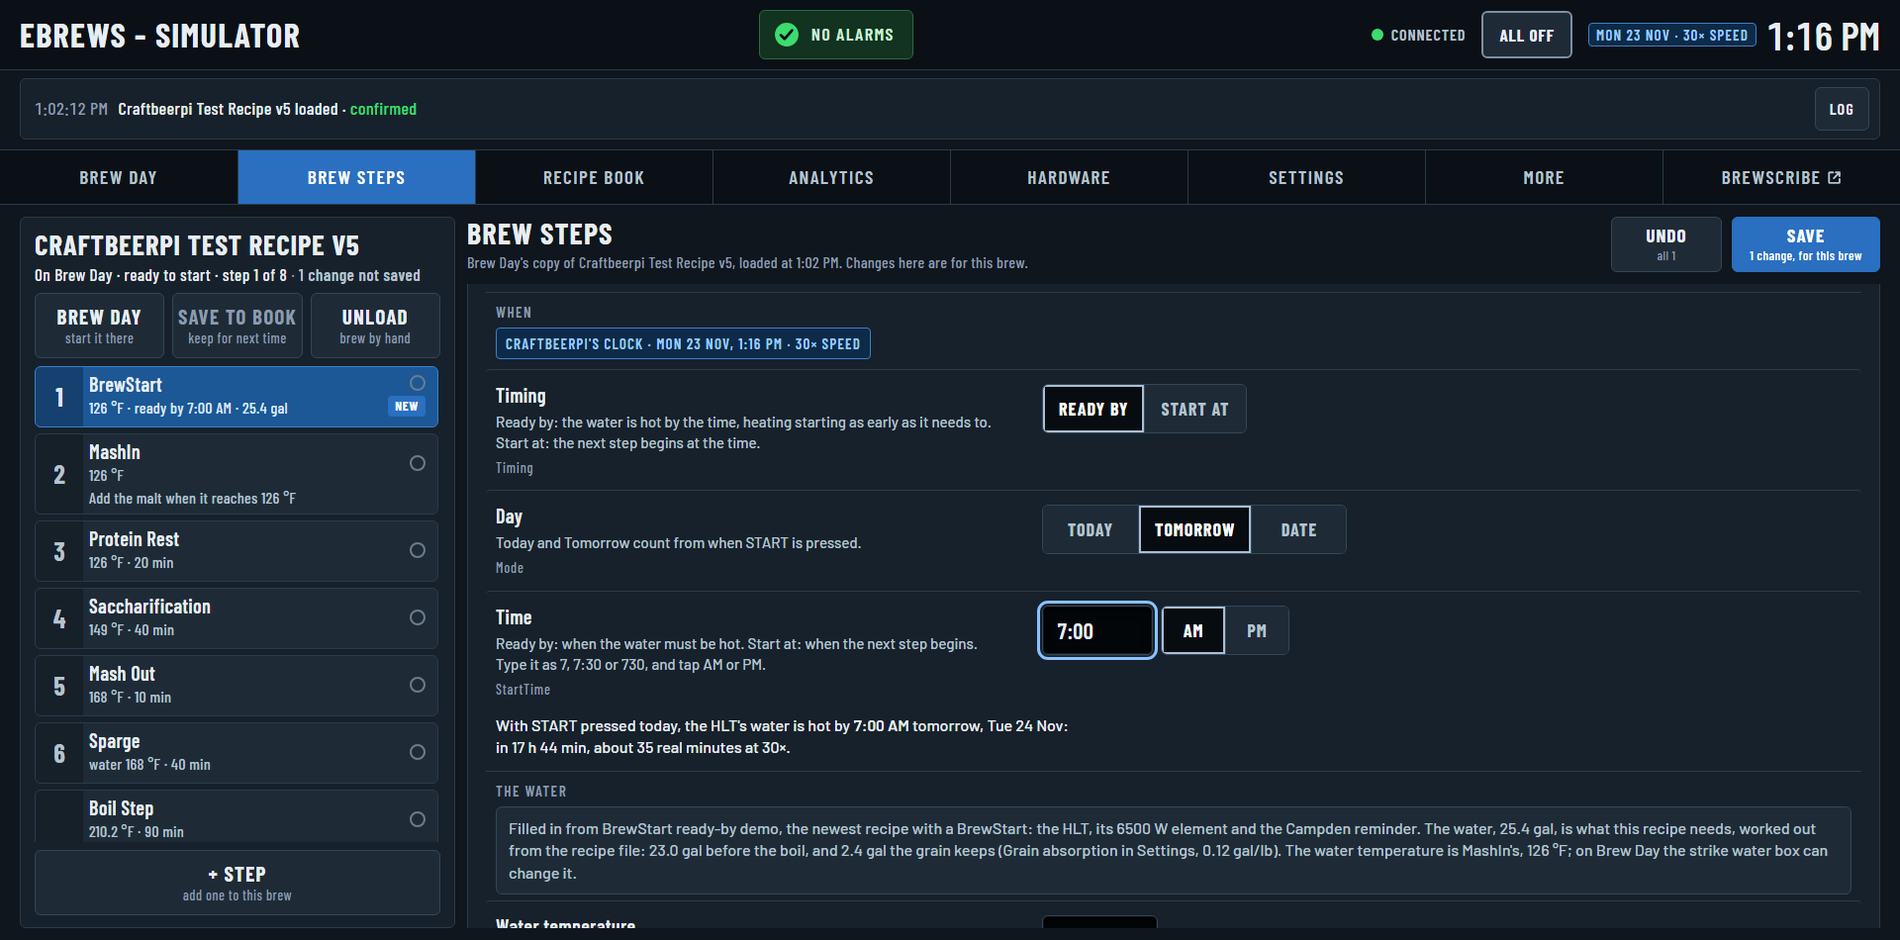
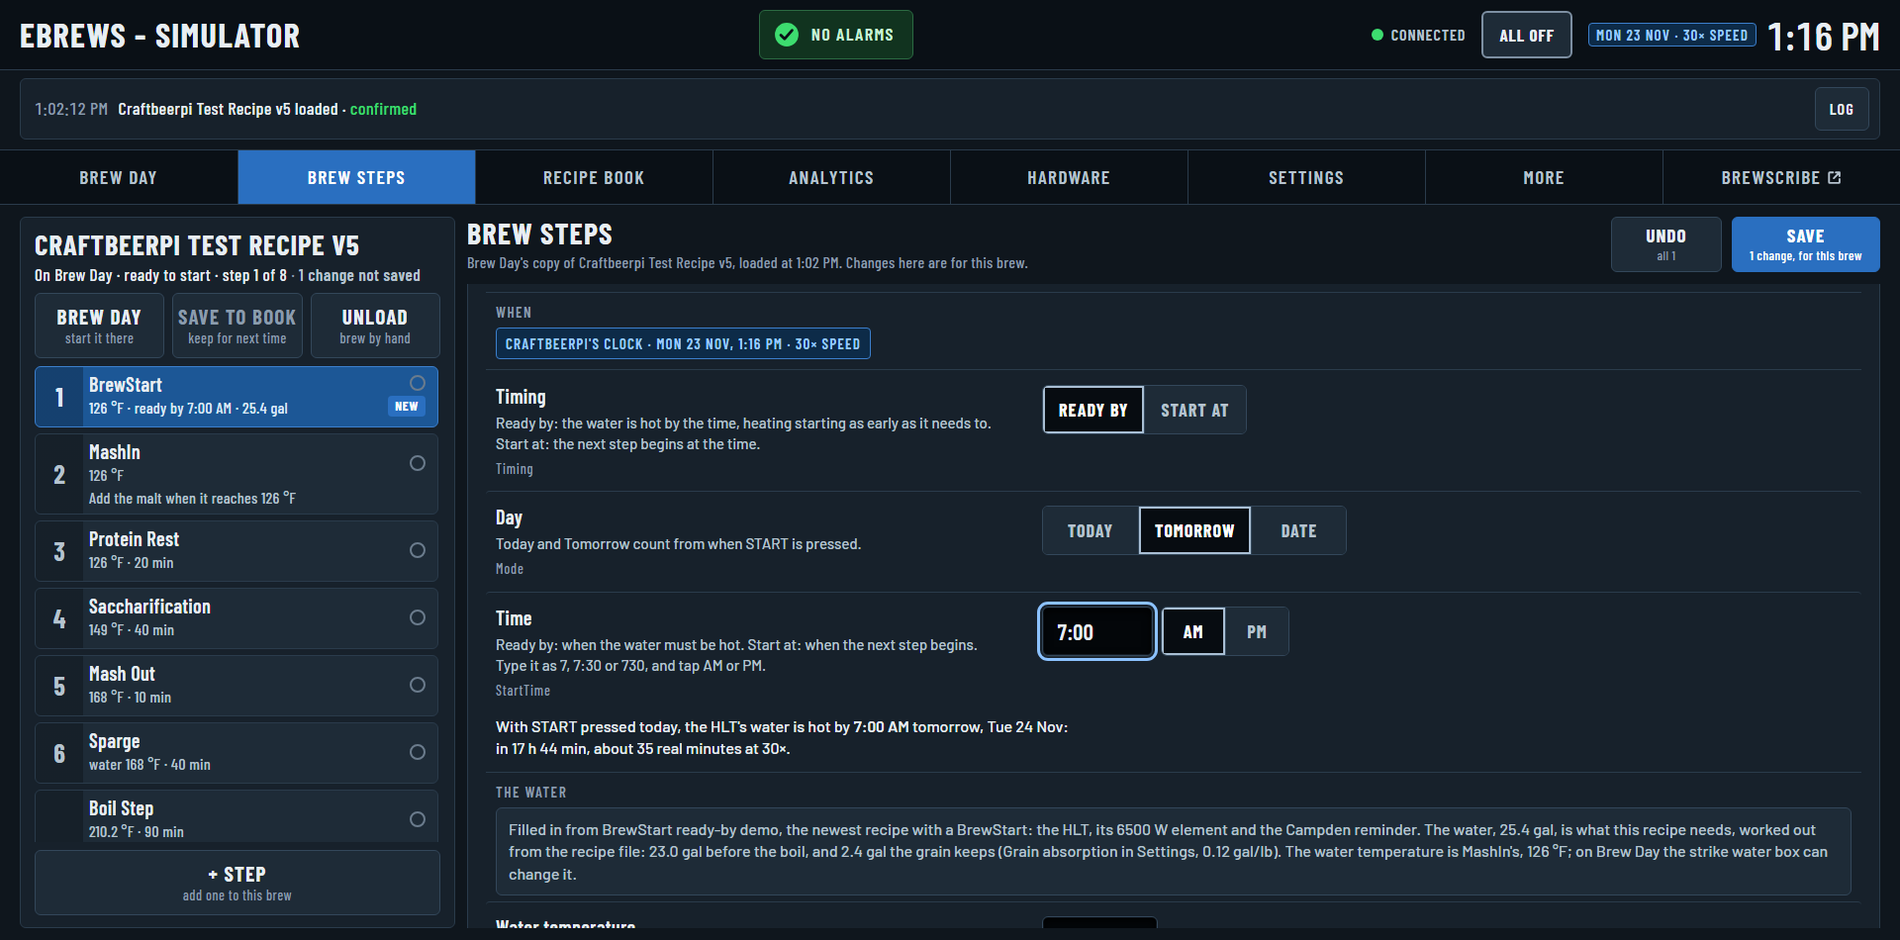
Recipe pages: BrewStart's time in words stays in view, and the clock is pinned
While BrewStart's time is set, the time in words (what shows a slip of
twelve hours) is brought into view after each key, AM or PM, the day and
the date, scrolling as little as it can, clear of the sticky tool row and
a phone's save bar and tabs, and checking the visual viewport for a
phone's on-screen keyboard. Never as the box is left. As Brew Day's
BrewStart box keeps its sentence in view before SET.

On a simulator, the clock tag is pinned at the top of When, as Brew Day's
box pins its tag, so it stays in view on a phone while the time is set.
When now opens below the sticky tool row from 701 to 899 px too.

Measured at twelve sizes: the box, the sentence and the tag in view after
opening, typing, "has passed" and DATE. 111 scripted checks pass.

diff --git a/proposal/recipes.js b/proposal/recipes.js
@@ -474,7 +474,7 @@ function cbClockHTML() {
   // a narrow screen breaks the tag only after a "·", never inside a part
   const seen = ["CraftBeerPi's clock", `${WEEK[d.getDay()]} ${d.getDate()} ${MON[d.getMonth()]}, ${t}`, g.fast ? `${sc}× speed` : ""].filter(Boolean).map(x => x.replace(/ /g, NB)).join(`${NB}· `);
   const said = `CraftBeerPi's clock: ${DAYS[d.getDay()]} ${d.getDate()} ${MONTHS[d.getMonth()]}, ${t}${g.fast ? `, running ${sc} times as fast` : ""}.`;
-  return `<p class="cbclk"><span class="seen" aria-hidden="true">${esc(seen)}</span><span class="sr">${esc(said)}</span></p>`;
+  return `<div class="cbbar"><p class="cbclk"><span class="seen" aria-hidden="true">${esc(seen)}</span><span class="sr">${esc(said)}</span></p></div>`;
 }
 // when the steps on Brew Day were loaded, on CraftBeerPi's clock, with the weekday when it isn't CraftBeerPi's today
 const loadedAt = (L = st.loaded) => `${timeOfDay(L.at)}${L.day && L.day !== cbDate() ? NB + WEEK[dateAt(L.day).getDay()] : ""}`;
@@ -904,7 +904,12 @@ function render() {
   $("#app").toggleAttribute("data-dirty", !bar.hidden);
   applyView();
   grow();
+  fitTool();
 }
+// the tool row's height where it sticks to the top of the window (701 to 1179 px), else 0
+const stickTop = () => { const t = $("#tool"); return t && getComputedStyle(t).position === "sticky" ? t.offsetHeight : 0; };
+// the clock band and the time in words stay clear of it
+const fitTool = () => document.documentElement.style.setProperty("--tool-h", stickTop() + "px");
 function applyView() {
   const m = $("#main");
   m.dataset.view = narrow() ? st.view : "split";
@@ -937,6 +942,7 @@ function paintEdit(k, label) {
   bar.hidden = !n;
   if (n) bar.innerHTML = `<p>${n} ${n === 1 ? "change" : "changes"} not saved</p>${saveBtns(n, st.page === "steps" ? "for this brew" : "in the book")}`;
   $("#app").toggleAttribute("data-dirty", !bar.hidden);
+  fitTool();
 }
 
 /* ---------- moving about ---------- */
@@ -959,6 +965,18 @@ function spy() {
   if (cur) setCur(cur);
 }
 function land(el) { el.classList.remove("land"); void el.offsetWidth; el.classList.add("land"); setTimeout(() => el.classList.remove("land"), 1300); }
+/* the time in words is what shows a slip of twelve hours, so while BrewStart's time is being set it stays in view: the
+   page scrolls as little as it can, clear of the sticky tool row and of a phone's save bar and tabs (the sentence's
+   scroll margins). Called after a key or a tap, never as a box is left: a scroll between a finger going down and coming
+   up can put the tap on another control. A phone's on-screen keyboard covers the page without making it shorter, so the
+   visual viewport is checked too */
+function keepWhenInView(k) {
+  const w = $(`#when-${k}`);
+  if (!w || !w.textContent.trim()) return;
+  w.scrollIntoView({block: "nearest"});
+  const vv = window.visualViewport;
+  if (vv && !wide()) { const over = w.getBoundingClientRect().bottom + 12 - (vv.offsetTop + vv.height); if (over > 0) window.scrollBy(0, over); }
+}
 /* a new BrewStart opens at its When settings with its time box ready: the time is the one thing only the brewer knows.
    The column (or, one thing at a time, the way back) still says where it went */
 function showWhen(k) {
@@ -967,10 +985,11 @@ function showWhen(k) {
   if (!part) return;
   const put = () => {
     if (wide()) { const pane = $("#pane"); pane.scrollTop += part.getBoundingClientRect().top - pane.getBoundingClientRect().top - 8; }
-    else window.scrollTo(0, part.getBoundingClientRect().top + scrollY - (narrow() ? 8 : $("#tool").offsetHeight + 16));
+    else window.scrollTo(0, part.getBoundingClientRect().top + scrollY - (stickTop() ? stickTop() + 16 : 8));
   };
   put();
   if (f) { f.focus({preventScroll: true}); put(); }
+  keepWhenInView(k);
 }
 function jump(k) {
   const ed = E();
@@ -1236,9 +1255,14 @@ document.addEventListener("click", e => {
     else if (norm(s._tt)) { const r = readTime(s._tt, ds.half); if (r) setProp(ds.s, ds.p, r); }
     render();
     const nb = $(`#i-${ds.s}-${ds.p}-half [data-half="${ds.half}"]`); if (nb) nb.focus({preventScroll: true});
+    return keepWhenInView(ds.s);
+  }
+  if (ds.set !== undefined && b.closest(".seg")) {
+    setProp(ds.s, ds.p, ds.set); const id = b.closest(".seg").id; render(); const nb = $(`#${id} [data-set="${CSS.escape(ds.set)}"]`); if (nb) nb.focus({preventScroll: true});
+    const sk = ds.s && ds.s !== "r" ? stepByKey(ds.s) : null;
+    if (sk && sk.type === "BrewStart" && (ds.p === "Timing" || ds.p === "Mode")) keepWhenInView(ds.s);
     return;
   }
-  if (ds.set !== undefined && b.closest(".seg")) { setProp(ds.s, ds.p, ds.set); const id = b.closest(".seg").id; render(); const nb = $(`#${id} [data-set="${CSS.escape(ds.set)}"]`); if (nb) nb.focus({preventScroll: true}); return; }
   if (ds.undo) {
     const ed = E(), k = ds.undo, label = ds.p;
     if (k === "r") ed.doc[label] = ed.orig[label];
@@ -1293,7 +1317,8 @@ document.addEventListener("input", e => {
     s._tt = f.value; s._typing = true;
     setProp(k, label, r || "");
     if (r) { s._half = halfOf(r); $$(`#${CSS.escape(f.id)}-half [data-half]`).forEach(x => x.setAttribute("aria-checked", String(x.dataset.half === s._half))); }
-    return paintEdit(k, label);
+    paintEdit(k, label);
+    return keepWhenInView(k);
   }
   if (f.tagName === "TEXTAREA") {
     const v = f.value.replace(/(\r\n|\r|\n)+/g, " ");
@@ -1302,6 +1327,7 @@ document.addEventListener("input", e => {
   }
   setProp(k, label, f.value);
   paintEdit(k, label);
+  if (label === "StartDate") keepWhenInView(k);
 });
 document.addEventListener("focusin", e => {
   const f = e.target;
@@ -1343,7 +1369,7 @@ document.addEventListener("dragleave", e => { const d = e.target.closest && e.ta
 document.addEventListener("drop", e => { const d = e.target.closest && e.target.closest("#drop"); if (!d) return; e.preventDefault(); d.classList.remove("over"); $("[data-choose]").click(); });
 $("#pane").addEventListener("scroll", () => requestAnimationFrame(spy), {passive: true});
 addEventListener("scroll", () => requestAnimationFrame(spy), {passive: true});
-addEventListener("resize", () => { applyView(); grow(); });
+addEventListener("resize", () => { applyView(); grow(); fitTool(); });
 
 /* ---------- moments (the strip at the top) ---------- */
 const V4 = "FtHtz5YsgsSFEikqEieXJb", V5 = "YhweWUoDCyYKB887DJ9EXd", V3 = "JimaSx8vJFQoZ2wjioiVRT", BS = "Sm2ziW9v2nxAMid7ft6PTr";
@@ -1423,7 +1449,7 @@ function startTick() {
     st.clock = `${String(Math.floor(n / 60) % 24).padStart(2, "0")}:${String(n % 60).padStart(2, "0")}`;
     paintClock();
     const tag = cbClockHTML(), ed = E();
-    $$(".cbclk").forEach(x => { x.outerHTML = tag; });
+    $$(".cbbar").forEach(x => { x.outerHTML = tag; });
     $$(".whenl").forEach(w => { const s = ed && ed.doc.steps.find(x => `when-${x._k}` === w.id); if (s) w.innerHTML = whenHTML(ed, s); });
   }, 60000 / st.sim.scale);
 }

diff --git a/proposal/recipes.css b/proposal/recipes.css
@@ -301,10 +301,17 @@ button.step:hover{background:linear-gradient(90deg,rgb(0 0 0/.26) 0 48px,transpa
 .whenl{margin:2px 10px 12px;max-width:66ch;font:500 16px/1.4 var(--sans);color:var(--text)}
 .whenl:empty{display:none}
 .whenl b{font-weight:600;font-variant-numeric:tabular-nums}
+/* kept in view while the time is set (keepWhenInView): clear of the sticky tool row above */
+.whenl{scroll-margin:calc(var(--tool-h,0px) + 12px) 0 12px}
 .whenl .late{color:var(--note)}
 /* CraftBeerPi's clock in BrewStart's When settings where it isn't the screen's (a simulator), in the title bar tag's
    look: Progress Blue on Progress Track Navy, condensed capitals */
-.cbclk{width:fit-content;max-width:calc(100% - 20px);margin:0 10px 10px;padding:6px 9px 5px;border:1px solid #3c7fcc;border-radius:4px;background:#0d2b48;font:600 15px/1.25 var(--cond);letter-spacing:.08em;color:#9bcbff}
+/* its band is pinned at the top of When: it sticks under the tool row, or at the top of the pane, while When's rows
+   scroll under it, as Brew Day's BrewStart box pins its tag above the part that scrolls */
+.cbbar{position:sticky;top:var(--tool-h,0px);z-index:4;padding:6px 10px 10px;border-bottom:1px solid var(--line);background:var(--panel)}
+.part h3:has(+.cbbar){padding-bottom:2px}
+.cbbar+.row{border-top-color:transparent}
+.cbclk{width:fit-content;max-width:100%;margin:0;padding:6px 9px 5px;border:1px solid #3c7fcc;border-radius:4px;background:#0d2b48;font:600 15px/1.25 var(--cond);letter-spacing:.08em;color:#9bcbff}
 .cbclk .seen{text-transform:uppercase}
 /* a time box, and with 12-hour times its AM and PM beside it */
 .tmf{display:flex;flex-wrap:wrap;align-items:stretch;gap:8px;justify-self:start}
@@ -513,4 +520,7 @@ select.fld option{background:#101a23;color:var(--text)}
   .savebar .cmd{min-height:52px;min-width:88px;padding:4px 12px;font-size:17px}
   .tool .sv{display:none}
   .toast{bottom:calc(var(--tabs-h) + 18px)}
+  /* and clear of the tabs, and the save bar while there are changes */
+  .whenl{scroll-margin-bottom:calc(var(--tabs-h) + env(safe-area-inset-bottom) + 12px)}
+  .app[data-dirty] .whenl{scroll-margin-bottom:calc(var(--tabs-h) + 66px + env(safe-area-inset-bottom) + 12px)}
 }

diff --git a/proposal/BUILD-NOTES.md b/proposal/BUILD-NOTES.md
@@ -132,7 +132,7 @@ EDIT, a tap on any step, or `#/recipe/<file>` opens the recipe's plates on the r
 
 ## + BrewStart
 
-- **One tap** on the dashed row over step 1 (`brewStartProps()`): BrewStart goes in as step 1 (on Brew Steps, at `firstFree()`, which is 0 before a brew begins), NEW, its plate open at **When** with the time box focused. In the book, the tap opens the recipe for changing first.
+- **One tap** on the dashed row over step 1 (`brewStartProps()`): BrewStart goes in as step 1 (on Brew Steps, at `firstFree()`, which is 0 before a brew begins), NEW, its plate open at **When** with the time box focused. Where the tool row sticks (701 to 1179 px), When opens below it. In the book, the tap opens the recipe for changing first.
 - **Filled in:** Timing `Ready by`, always written: a step saved with no Timing runs as Start at. Mode `Tomorrow` from noon by CraftBeerPi's clock (`brewNow()`, the title bar's: see "One clock"), the night before, and `Today` before. No time. Heat_Kettle, Heater_Watts and Campden_Reminder from the newest BrewStart CraftBeerPi has: the one on Brew Day, else the one in the newest recipe in the book that has one; else the HLT and an empty element. Ready_Temp from the recipe's mash in. **Volume** (the HLT's water, all of it, strike and sparge) is what the recipe needs, from its `mash_numbers` (change 7): `boil_l` − `top_up_kettle_l` + `grain_kg` × Grain absorption + `lauter_dead_l`, in the brewery's unit (gal for °F, L for °C; `recipeWater()`), to 0.1. Else the newest BrewStart's Volume and unit, the last brew's; else blank, and Brew Day asks. For v5: 23.0 + 20 lb × 0.12 + 0 = 25.4 gal. Brew Day's BrewStart time-setting fills it the same way, so put `recipeWater()` beside `stepModel` in `live.js`. Grain_Temp and NotifyBefore blank (the boil kettle's probe; 15 min). AutoNext Yes. A note under "The water" says where they came from: "Filled in from BrewStart ready-by demo, the newest recipe with a BrewStart: the HLT, its 6500 W element and the Campden reminder. The water, 25.4 gal, is what this recipe needs, worked out from the recipe file: 23.0 gal before the boil, and 2.4 gal the grain keeps (Grain absorption in Settings, 0.12 gal/lb). The water temperature is MashIn's, 126 °F; on Brew Day the strike water box can change it." From the last brew: "… the HLT, its 6500 W element, 10.6 gal of water, the last brew's, and the Campden reminder." With neither: "No water figure yet: Brew Day asks for it."; with no BrewStart anywhere: "No recipe has a BrewStart yet, so the element is blank."
 - **The time in words**, under When, as `schedule.resolve_start` works it out (Today and Tomorrow count from when START is pressed, by CraftBeerPi's clock), and worded as Brew Day's BrewStart box words it (`whenHTML()`, with `inWords()` for its `bsIn`): "With START pressed today, the HLT's water is hot by 7:00 AM tomorrow, Mon 23 Nov: in 10 h 20 min." On a simulator not at 1×: "…: in 17 h 44 min, about 35 real minutes at 30×." On Start at: "… MashIn starts at 7:00 AM tomorrow, …". A date: "The HLT's water is hot by 7:00 AM tomorrow, Mon 23 Nov: in 10 h 20 min.", or further off "… by 7:00 AM Wed 25 Nov: in 58 h 20 min." A time already past: "7:00 AM today has passed, so nothing would start by itself. For tomorrow morning, choose TOMORROW.", in the note colour (`--note`). The vessel's name is the BrewStart's own ("the HLT's water").
 - **What it can't be saved without** (`needOf()`), said under the setting in the note colour and on SAVE's second line, SAVE greyed until then: the time ("Needed: without a time, BrewStart can't start." / "set BrewStart's time first"); a date with DATE; for Ready by, the vessel and the element's watts ("Needed for Ready by: it works out when to start heating from the element's watts.").
@@ -232,12 +232,13 @@ The brewer asked for 12-hour times everywhere CraftBeerPi shows a time of day. T
 For any setting CraftBeerPi declares as a time; today that's only BrewStart's StartTime.
 
 - **A text box,** not the browser's time box, whose 12- or 24-hour look follows the browser's language rather than CLOCK_FORMAT. `inputmode="numeric"`, placeholder "7:00" ("07:00" with 24-hour), 112 px wide, in 22 px condensed figures.
-- **AM and PM beside it**, with 12-hour: two buttons, a radio group named "AM or PM" (`#i-<key>-StartTime-half`, each `[data-half="am"]` or `"pm"`), 64 × 48 px, as a phone's number keys have no letters. The box and the pair are one group, named by the setting's label. The box shows "7:00", and the lit button says which half of the day. An empty box shows AM: BrewStart's water is nearly always for the morning.
+- **AM and PM beside it**, with 12-hour: two buttons, a radio group named "AM or PM" (`#i-<key>-StartTime-half`, each `[data-half="am"]` or `"pm"`), 64 × 48 px, as a phone's number keys have no letters. No hint line under them: the time in words says which half it is. They're 48 px tall, as the box and the other choices in a Settings row are; Brew Day's box has 44 px ones, beside its 44 px keys. The box and the pair are one group, named by the setting's label. The box shows "7:00", and the lit button says which half of the day. An empty box shows AM: BrewStart's water is nearly always for the morning.
 - **How a typed time is read** (Amber's rule): "7", "700" and "7:00" are 7:00 in the half of the day the box showed when typing began; leading zeros don't matter, so "07:00" is "7:00"; "7a" and "7 am" are morning; "7p", "7 pm", "19" and "19:00" are evening; "12" alone is noon and "12a" midnight; "7.30" and "7 30" are 7:30. With AM or PM, the hour is 1 to 12, and minutes are 00 to 59. With 24-hour, a time without AM or PM is the 24-hour time, and "7 pm" is still 19:00.
 - **AM or PM** moves the time to that half of the day ("7:00 PM" becomes "7:00 AM"), and is the half a time typed next is read in. The focus stays on the button.
 - **A time it can read counts at once,** as it's typed: the time in words, the step's row and the count of changes follow it. Once the box is left (or on Enter), it shows the time as it reads it: "7" becomes "7:00".
 - **What it can't read** leaves the step with no time. Nothing is said while it's being typed. Once the box is left, the text stays as typed, and under it: "That isn't a time: type it as 7, 7:30 or 730, and tap AM or PM." (with 24-hour, "… 7, 7:30 or 19:30."). SAVE waits: "Set BrewStart's time first."
 - **Its help line** adds how to type it: "Type it as 7, 7:30 or 730, and tap AM or PM." (with 24-hour, "Type it as 7, 7:30 or 19:30."). The box's `aria-describedby` points to it (`#wh-<key>-StartTime`).
+- **The time in words stays in view** while the time is set (`keepWhenInView()`). It's what shows a slip of twelve hours, so it's read before SAVE, as Brew Day's box keeps its sentence in view before SET. After each key that changes the time, after AM or PM, READY BY or START AT, TODAY, TOMORROW or DATE, after a date, and as the settings open at When, the page scrolls as little as it can (`scrollIntoView({block: "nearest"})`). It stays clear of the sticky tool row (701 to 1179 px) and, on a phone, of the tabs and the save bar (the sentence's `scroll-margin`). Never as the box is left: a scroll between a finger going down and coming up can land the tap on another control. A phone's on-screen keyboard covers the page without making it shorter, so it checks `visualViewport` too. Try it on the real phone with the keyboard up.
 - A running BrewStart's box and buttons are greyed, as its other settings are. The date stays the browser's date box.
 
 ## On a simulator: CraftBeerPi's clock where BrewStart's time is set
@@ -246,6 +247,7 @@ From the brewer: on a simulator whose speed isn't 1, setting BrewStart's time mu
 
 - **A tag at the top of BrewStart's When settings,** in the book and on Brew Steps, under the "When" heading: "CRAFTBEERPI'S CLOCK · MON 23 NOV, 1:16 PM · 30× SPEED" (`cbClockHTML()`). It shows only while CraftBeerPi's clock isn't the screen's, as the title bar's tag decides it: its speed isn't 1×, or its date isn't the screen's. The speed part shows only when it isn't 1×. On the rig there's nothing.
 - **Why there:** TODAY, TOMORROW and the time in words are all by that clock, and the brewer is looking at the When settings, not the title bar, while he sets the time.
+- **It's pinned**, as Brew Day's box pins its tag above the part that scrolls. It's in a band (`.cbbar`, the plate's colour, with a line under it) that sticks under the tool row where the tool row sticks (`--tool-h`, its height, set as the page draws), or at the top of the pane. When's rows scroll under it. So on a phone, with the time box and its sentence brought into view, the clock is still at the top. The band goes with the When settings once they scroll away.
 - **Its look** is the title bar tag's: Progress Blue (`#9bcbff`) on Progress Track Navy (`#0d2b48`), with a `#3c7fcc` edge, in 15 px condensed capitals. On a narrow screen it breaks only after a "·".
 - **A screen reader** hears "CraftBeerPi's clock: Monday 23 November, 1:16 PM, running 30 times as fast." The visible words are `aria-hidden`, and only they are in capitals, so the sentence isn't spelt out letter by letter.
 - **It counts on** with CraftBeerPi's clock (`brewNow()`), by the minute, at the simulator's speed. The title bar, the tag and the time in words follow it.
@@ -302,8 +304,9 @@ Found by reading every test that names these pages or their calls; none was run 
 
 ## Checked
 
-- 104 scripted presses and checks in a real browser (Edge, headless), every one as designed: LOAD in each of its cases, its questions and their answers (a recipe not in the book included), UNLOAD's, SAVE TO BOOK with and without a name and then LOAD asking nothing, SAVE TO BOOK putting a BrewStart set for one brew into the book as Tomorrow with no grain temperature while the brew keeps both, a new BrewStart's water from the recipe and from the last brew, editing and SAVE, + STEP's places (a rest before Mash Out, BrewStart first), MOVE with FIRST and with PUT IT HERE, UNDO and Escape, steps that have begun held in place while a step runs, + BrewStart filled in with SAVE waiting for its time and the time in words, importing with its result row and warning, FIND, the tabs, and a phone going from book to recipe to step and moving a step there. And the 12-hour times: typed times read by the rule ("7", "7p", "19", "12", "12a", "730", "8" in the half the box showed), AM and PM moving the time, a time it can't read said once the box is left with SAVE waiting, the help line, 24-hour with `?clock=24-hour`, a date's weekday in the step row, the book's "Today 7:52 AM" on one line; and on a simulator the clock tag in Amber's words and its screen-reader sentence, the title bar's tag, the time in words in real minutes, the clock counting on, and the speed set back to 1× redrawing it all.
+- 111 scripted presses and checks in a real browser (Edge, headless), every one as designed: LOAD in each of its cases, its questions and their answers (a recipe not in the book included), UNLOAD's, SAVE TO BOOK with and without a name and then LOAD asking nothing, SAVE TO BOOK putting a BrewStart set for one brew into the book as Tomorrow with no grain temperature while the brew keeps both, a new BrewStart's water from the recipe and from the last brew, editing and SAVE, + STEP's places (a rest before Mash Out, BrewStart first), MOVE with FIRST and with PUT IT HERE, UNDO and Escape, steps that have begun held in place while a step runs, + BrewStart filled in with SAVE waiting for its time and the time in words, importing with its result row and warning, FIND, the tabs, and a phone going from book to recipe to step and moving a step there. And the 12-hour times: typed times read by the rule ("7", "7p", "19", "12", "12a", "730", "8" in the half the box showed), AM and PM moving the time, a time it can't read said once the box is left with SAVE waiting, the help line, 24-hour with `?clock=24-hour`, a date's weekday in the step row, the book's "Today 7:52 AM" on one line; and on a simulator the clock tag in Amber's words and its screen-reader sentence, the title bar's tag, the time in words in real minutes, the clock counting on, and the speed set back to 1× redrawing it all.
 - All 37 moments at 390×844, 800×900, 1100×800, 1366×768 and 1920×950: no script errors.
+- BrewStart's time box, its time in words and, on a simulator, the clock tag, all in view: as the settings open, after a typed time, after TODAY makes it "has passed", and with DATE chosen, at twelve sizes from 390 × 844 to 1920 × 950, 1180 × 860 included. Before this, the save bar hid the sentence on a phone, the tool row hid the tag at 800 px, and with DATE the sentence was cut by up to 16 px from 900 to 1366 px.
 - The widest time of day, 12:59 PM, put into the title bar (with a long brewery name too), the step rows and the book's Changed column, and the time box with AM and PM, at eight widths from 390 to 1920 px: nothing overlaps, wraps or is cut.
 - Text contrast, as above. The Impeccable detector finds only what the last version had: Brew Day's marching stripes and lamp glow, which the frame owns.
 - Today's pages on 8012, looked at without pressing anything: the book, a recipe, the import page, Brew Steps, and the add-step form with BrewStart and Ready by chosen (`pictures\today-…`).
